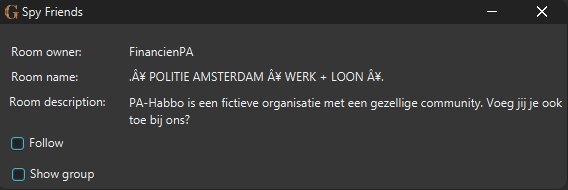
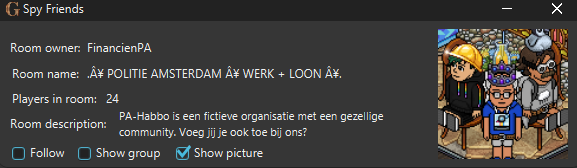
Changed readme and screenshot

diff --git a/README.md b/README.md
@@ -2,7 +2,7 @@
 Find out where your friends are without leaving your room
 
 ## How to use this extension
-Follow and show group is on by default. When you turn follow off you are not able to follow a friend. When you turn show group off you can't see the room group changing when checking where your friends are. You also need to wait a couple seconds before following another person, because habbo is blocking spam follow requests. If you don't wait the room results will not update. 
+Follow, show group and show picture are on by default. When you turn follow off you are not able to follow a friend. When you turn show group off you can't see the room group changing when checking where your friends are. You also need to wait a couple seconds before following another person, because habbo is blocking spam follow requests. If you don't wait the room results will not update. 
 
 ## Example
 
